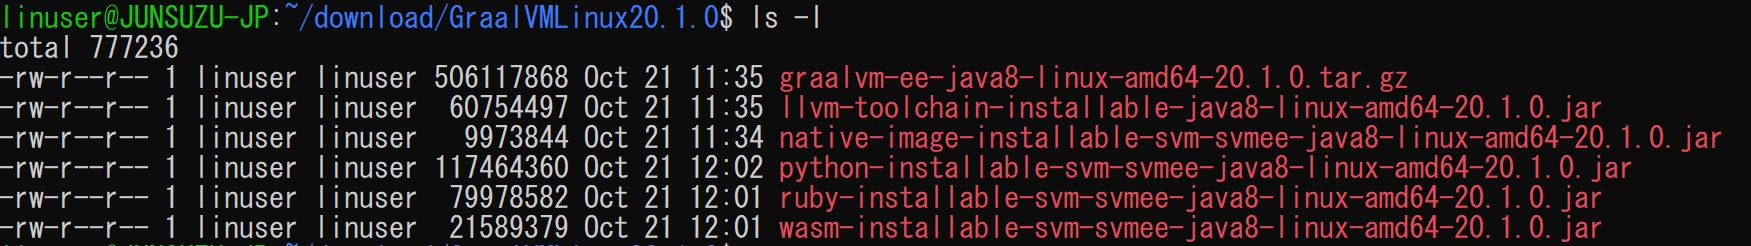
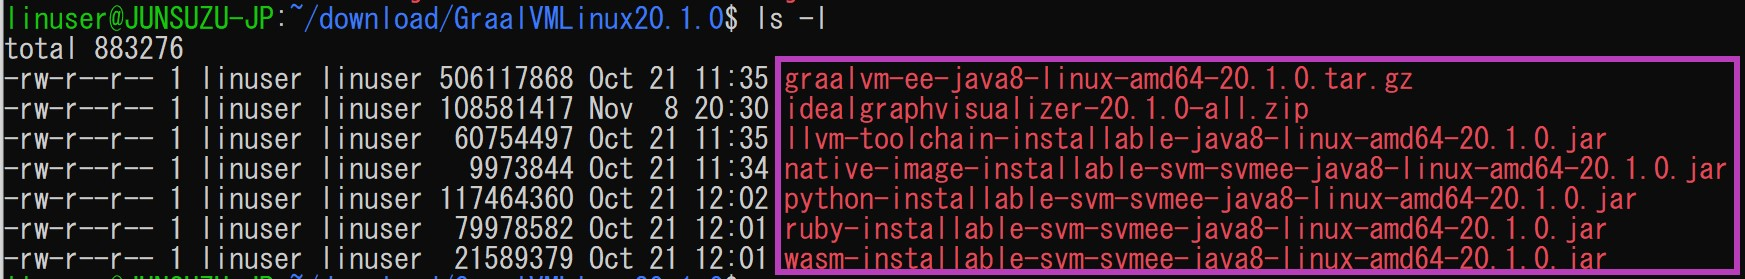
updated

diff --git a/README.md b/README.md
@@ -14,9 +14,10 @@ _Wednesday, 9 December 2020_
 
 * **[演習 1: 前提環境／事前準備](#演習-1-前提環境事前準備)**
 * **[演習 2: GraalVM Enterpriseのインストール](#演習-2-GraalVM-Enterprise-Editionのインストール)**
-   * [2.1: GraalVM EE20.1.0のCoreパッケージ](#21-GraalVM-EE2010のCoreパッケージ)
-   * [2.2: Native Image, LLVM-toolchain, R言語コンポーネント](#22-Native-Image-LLVM-toolchain-R言語コンポーネント)
-   * [2.3: Native Imageの依存ライブラリー](#23-Native-Imageの依存ライブラリー)
+   * [2.1: GraalVM EE20.1.0のダウンロード](#21-GraalVM-EE2010のダウンロード)
+   * [2.2: GraalVM Coreパッケージのインストール](#22-GraalVM-Coreパッケージのインストール)
+   * [2.3: Native Imageのインストール](#23-Native-Imageのインストール)
+   * [2.4: R言語コンポーネントのインストール](#24-R言語コンポーネントのインストール)
 
 * **[演習 3: High-performance JIT コンパイラー](#演習-3-High-performance-JIT-コンパイラー)**
 * **[演習 4: Native Imageの生成と実行](#演習-4-Native-Imageの生成と実行)**
@@ -54,7 +55,7 @@ _Wednesday, 9 December 2020_
 
 <br/>
 
-(3)OSを選択後、以下のコンポーネントをダウンロードします。赤字表示のコンポーネントはこの演習に必要です。その他のオプショナルコンポーネントは演習では使いませんが、今後GraalVMの多くの機能を試したい場合はダウンロードしておいてください。
+(3)OSを選択後、以下のコンポーネントをダウンロードします。必須コンポーネントはこの演習に必要です。その他のオプショナルコンポーネントは演習では使いませんが、今後GraalVMの多くの機能を試したい場合はダウンロードしておいてください。
 *	Oracle GraalVM Enterprise Edition Core（必須）
 *	Oracle GraalVM Enterprise Edition Native Image（必須）
 * Ideal Graph Visualizer（オプショナル）
@@ -74,34 +75,42 @@ _Wednesday, 9 December 2020_
 
 <br/>
 
-コンポーネントをダウンロード後、Linuxのファイルシステム上に下記のようなモジュール一覧が表示されます。（赤線で囲まれている部分はこの演習で使うモジュールです）：
-* graalvm-ee-java8-linux-amd64-20.1.0.tar.gz
+コンポーネントをダウンロードした後、Linuxファイルシステム上に下記のようなモジュール一覧が表示されます：
+* graalvm-ee-java8-linux-amd64-20.1.0.tar.gz(必須)
+* idealgraphvisualizer-20.1.0-all.zip
 * llvm-toolchain-installable-java8-linux-amd64-20.1.0.jar
-*  native-image-installable-svm-svmee-java8-linux-amd64-20.1.0.jar
+*  native-image-installable-svm-svmee-java8-linux-amd64-20.1.0.jar(必須)
 *  python-installable-svm-svmee-java8-linux-amd64-20.1.0.jar
 *  namedruby-installable-svm-svmee-java8-linux-amd64-20.1.0.jar
 * wasm-installable-svm-svmee-java8-linux-amd64-20.1.0.jar
 
- ![Download Picture 5](images/GraalVMinstall05_1.JPG)
+ ![Download Picture 5](images/GraalVMinstall05.JPG)
 
+<br/>
 
-(4)モジュールをダウンロード後、以下のように解凍します
+# 2.2: GraalVM Coreパッケージのインストール
+
+(1)各モジュールをダウンロードした後、ダウンロード先のディレクトリーにて以下のコマンドを実行し、Coreパッケージを解凍します。
   >```sh
   >tar -zxf graalvm-ee-java8-linux-amd64-20.1.0.tar.gz
   >```
-
+<br/>
 上記コマンドの実行により”graalvm-ee-java8-20.1.0”というフォルダーが作成されます。
     
 ![Download Picture 6](images/GraalVMinstall06.JPG)
 
-そのフォルダーをJava Homeとなる任意のディレクトリーに移動してください。下記の例では/optの配下に移動する例です：
+<br/>
+フォルダーを任意のディレクトリーに移動します。そのディレクトリー配下がGraalVMのインストール先(Java Home)となります。下記の例ではフォルダーを/optの配下に移動する例です：
+
   >```sh
   >sudo mv graalvm-ee-java8-20.1.0 /opt/.
   >```
 
-これにより、GraalVMのインストールディレクトリーは/opt/graalvm-ee-java8-20.1.0になります。
+これにより、GraalVMのインストール・ディレクトリー（Java Home)は/opt/graalvm-ee-java8-20.1.0になります。
 
-(5)インストールしたGraalVMのパスを通すためには、以下のコマンドを実行します。
+<br/>
+
+(2)インストールしたGraalVMのパスを通すためには、以下のコマンドを実行します。
 
 bashの場合
   >```sh
@@ -131,44 +140,66 @@ zshの場合
   >source ~/.zshrc
   >```
 
-以上でGraalVMのインストールが完了します。確認するため以下のjavaコマンドを実行します。
+以上でGraalVM Coreパッケージのインストールが完了しました。確認するため以下のjavaコマンドを実行します。
   >```sh
   >java –version
   >```
 
+<br/>
 以下の出力結果を確認できれば、GraalVM 20.1.0 Java8が正常にインストールされたことになります。
+
   >```sh
   >Java(TM) SE Runtime Environment (build 1.8.0_251-b08)
   >Java HotSpot(TM) 64-Bit Server VM GraalVM EE 20.1.0 (build 25.251-b08-jvmci-20.1-b02, mixed mode)
   >```
 <br/>
 
-# 2.2: Native Image, LLVM-toolchain, R言語コンポーネント
+# 2.3: Native Imageのインストール
 
-(6)　最後の手順として、Native Image, LLVM toolchain, Rをインストールします。インストールするのにGraalVM Utility guを使用します。
+(1)　Native ImageをインストールするのにGraalVM Utility(gu)を使用します。モジュールのダウンロード先にて下記コマンドを実行します。
   >```sh
   >gu install -L native-image-installable-svm-svmee-java8-darwin-amd64-20.1.0.jar
   >```
 
+(2) Native Image依存ライブラリーのインストール
+
+Native Imageの生成と実行は、以下３つのライブラリーが必要です。  
+* glibc-devel: 標準 C ライブラリを使用した開発に必要なファイル
+* zlib-devel: zip や gzip に使われている圧縮アルゴリズムをライブラリ化したもの
+* gcc: C/C++など複数言語のコンパイラー集  
+
+OSによりインストール・コマンドは異なります：  
+
+Ubuntu
   >```sh
-  >gu install -L llvm-toolchain-installable-java8-darwin-amd64-20.1.0.jar
+  >sudo apt-get install build-essential libz-dev zlib1g-dev
   >```
 
+Oracle Linux
+  >```sh
+  >sudo yum install gcc glibc-devel zlib-devel
+  >```
+その他Linux
+  >```sh
+  >sudo dnf install gcc glibc-devel zlib-devel libstdc++-static
+  >```
+MacOS
+  >```sh
+  >xcode-select --install
+  >
+<br/>
+
+# 2.4: R言語コンポーネントのインストール
+
+(1)R言語コンポーネントのインストール  
+以下のコマンドを実行し、必要なモジュールを自動的にgithubよりダウンロードされます。
   >```sh
   >gu install R
   >```
-(※Rのインストール時、必要なモジュールを自動的にgithubよりダウンロードされます)]
 
-インストール後、以下のguコマンドでインストールされたモジュールを確認します：
-  >```sh
-  >gu list
-  >```
+(2)R言語ソースのコンフィグ  
 
-![Download Picture 7](images/GraalVMinstall07.JPG)
-
-
-
-インストール完了後、以下のR言語ソースのコンフィグ作業も実施してください。
+以下のコマンドでR言語ソースのコンフィグ作業を実施します。
   >```sh
   >/opt/graalvm-ee-java8-20.1.0/jre/languages/R/bin/configure_fastr
   >```
@@ -188,19 +219,24 @@ zshの場合
     DONE
 
 <br/>
+インストール完了後、以下のguコマンドでインストールされたモジュールを確認します：
 
-# 2.3: Native Imageの依存ライブラリー
-
-Native Imageの実行は、glibc-devel, zlib-devel, gccの三つのライブラリーが必要です。下記コマンドでインストールしてください。
   >```sh
-  >sudo apt-get install build-essential libz-dev zlib1g-dev
+  >gu list
   >```
 
-おめでとうございます！以上の作業で本ワークショップに必要な環境設定がすべて完了しました。以下のタスクが実施されました：
-1.	GraalVM EE20.1.0のCoreパッケージをインストールし、クラスパスを設定しました。
-2.	Native Image, LLVM-toolchain, R言語の三つのコンポーネントをインストールしました。
-3.	Rのコンフィグを実施しました。
-4. Native Imageに必要なライブラリーをインストールしました.  
+![Download Picture 7](images/GraalVMinstall07.JPG)
+
+
+<br/>
+<br/>
+お疲れ様でした！以上の作業で本ワークショップに必要な環境設定がすべて完了しました。演習では以下のタスクを実施しました。
+
+1.	GraalVM EE20.1.0のCoreパッケージのインストールおよびクラスパスの設定
+2. Native Imageおよび依存ライブラリーのインストール
+3. R言語のインストールとソースのコンフィグ  
+
+<br/>
 <br/>
 
 # 演習 3: High-performance JIT コンパイラー
